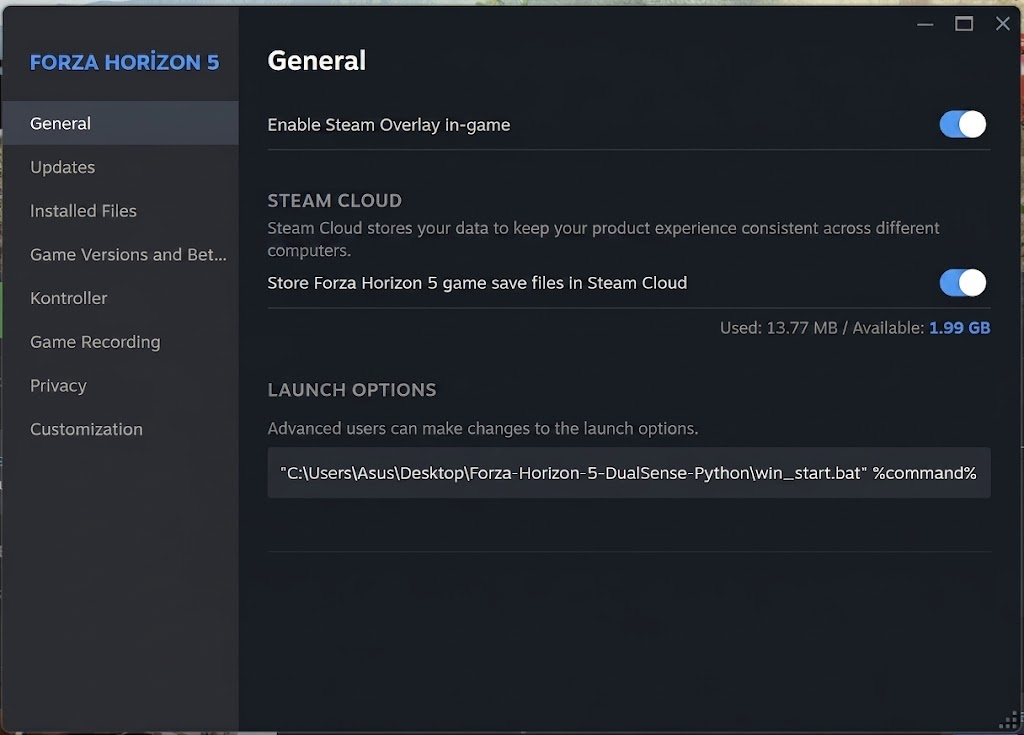
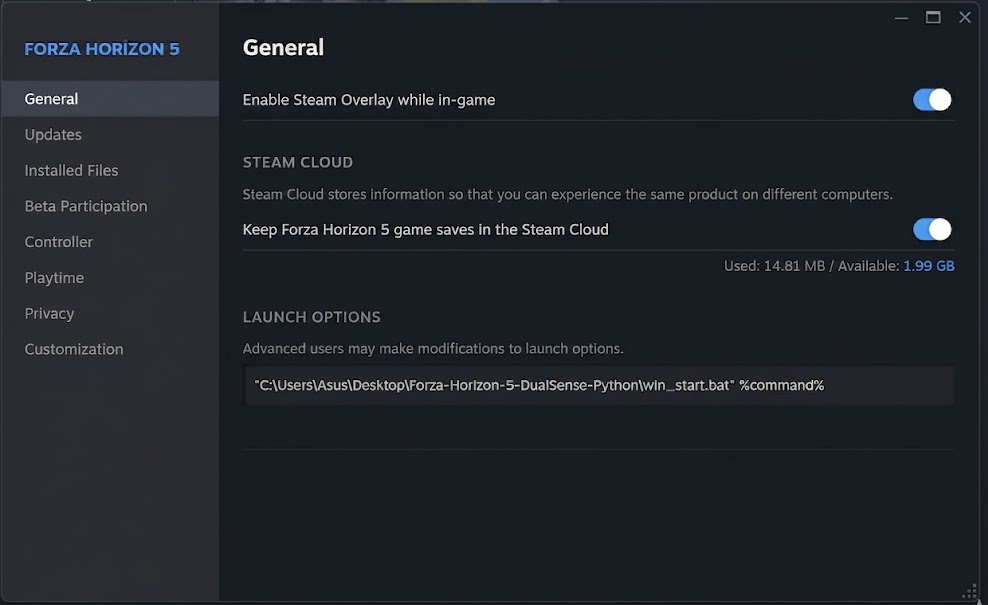
better readme

diff --git a/README.md b/README.md
@@ -1,113 +1,77 @@
-> Steam profile: <https://steamcommunity.com/id/teccno/>
->
-> 💛 Huge thanks to **[Jared (jmac122)](https://github.com/jmac122)** for sponsoring this project by gifting me Forza Horizon 6. This release wouldn't exist without him. Have fun using the app.
-
 <div align="center">
   <h1>🏎️ Forza Horizon — DualSense Adaptive Triggers</h1>
-  <p><strong>Real, physics-driven trigger feedback for the Steam version of Forza Horizon.</strong></p>
-  <p><em>Lightweight · No presets · No mode juggling · One file of knobs you can edit in 10 seconds.</em></p>
+  <p><strong>Real trigger feedback for Forza Horizon on PC.</strong></p>
+  <p><em>Feel the brakes. Feel the engine. No setup juggling.</em></p>
 </div>
 
----
+![TUI Screenshot](img/tui.png)
 
-## TUI Screenshot
-![alt text](img/tui.png)
-
-## 📜 Table of Contents
-1. [Why this exists](#-why-this-exists)
-2. [What you'll feel](#-what-youll-feel)
-3. [How it works](#-how-it-works)
-4. [Installation](#%EF%B8%8F-installation)
-5. [In-game setup](#-in-game-setup)
-6. [Run it](#%EF%B8%8F-run-it)
-7. [CLI options](#%EF%B8%8F-cli-options)
-8. [Tuning the feel](#%EF%B8%8F-tuning-the-feel)
-9. [Project layout](#-project-layout)
-10. [Troubleshooting](#-troubleshooting)
-11. [Credits](#-credits)
+> 💛 Huge thanks to **[Jared (jmac122)](https://github.com/jmac122)** for sponsoring this project by gifting me Forza Horizon 6.
+>
+> Steam profile: <https://steamcommunity.com/id/teccno/>
 
 ---
 
-## 💡 Why this exists
+## 📜 Contents
+1. [What it does](#-what-it-does)
+2. [Install](#-install)
+3. [In-game setup](#-in-game-setup)
+4. [Run it](#-run-it)
+5. [Auto-launch with Steam](#-auto-launch-with-steam)
+6. [Tuning the feel](#-tuning-the-feel)
+7. [Troubleshooting](#-troubleshooting)
+8. [Credits](#-credits)
 
-Forza Horizon on PC sends rich telemetry over UDP — but Steam Input only forwards generic rumble to the DualSense. The actual **adaptive triggers** (the killer feature of the controller) just sit there doing nothing.
 
-This project bridges the gap with a tiny Python service:
-
-- It reads Forza Horizon's UDP packets each frame.
-- It computes a single adaptive-trigger command for each trigger.
-- It writes those commands to the DualSense via raw HID — **without touching the rumble bits**, so Steam keeps doing its job.
-
-The result: a brake pedal that feels like a brake pedal and a gas pedal that pushes back when the engine is working.
-
----
-
-## 🎮 What you'll feel
-
-### Left trigger — Brake
-A **continuous, exponential** brake resistance. The trigger keeps a tiny always-on baseline so it does not rapidly toggle between off and rigid near the deadzone. As brake input rises, resistance climbs softly at first and gets firmer near the end.
-
-Left-trigger effects:
-
-| Priority | Effect | Feel |
-|---------:|--------|------|
-| 1 | **ABS / tire-slip pulse** | A fast `35 Hz` vibration when braking hard enough, moving above the minimum speed, and tire slip telemetry crosses the ABS thresholds. |
-| 2 | **Progressive brake resistance** | Exponential rigid resistance from a `1`-force baseline up to `25` during normal braking. Above ~98% input it jumps to full trigger force (`255`). |
-| 3 | **Handbrake bonus** | Adds a flat `25` force on top of the normal brake resistance when the handbrake is engaged. |
-
-### Right trigger — Throttle
-Strict priority — **only one effect plays at a time**, so animations never fight:
-
-| Priority | Effect | Feel |
-|---------:|--------|------|
-| 1 | **Gear-shift thump** | A short `20 Hz` vibration burst (~100 ms) when shifting up or down while the car is moving. |
-| 2 | **Rev limiter buzz** | A `30 Hz` vibration when RPM is above the redline ratio. |
-| 3 | **Progressive throttle resistance** | Soft exponential resistance from a `1`-force baseline up to `10` during normal throttle. Above ~98% input it jumps to full trigger force (`255`). |
-
-The chain lives in [TriggerAnimation._throttle()](src/modules/dualsense/triggers.py) — about 20 lines, easy to extend.
-
-> ⚠️ **Rev limiter caveat:** the buzz fires based on `rpm / max_rpm` as a
-> percentage, not at a fixed RPM. Different cars hit their redline at
-> different fractions of telemetry `max_rpm`, so the `rev_limit_ratio`
-> setting may need to be fine-tuned per vehicle to feel right. Sorry about
-> that — it's a limitation of how Forza reports the redline.
 
 ---
 
-## ⚡ How it works
+## 💡 What it does
+
+Forza Horizon sends car telemetry over UDP, but Steam Input doesn't use the DualSense's **adaptive triggers**. This tiny app fills the gap:
+
+- **Left trigger (brake)** — pushes back harder the more you press. Buzzes like ABS when tires slip. Extra resistance when handbraking.
+- **Right trigger (throttle)** — soft progressive resistance. Thumps on gear shifts. Buzzes at the rev limiter.
+
+### How it talks to your controller without fighting Steam
 
 ```
-┌─────────────────┐   UDP 5300    ┌───────────────┐   HID write    ┌─────────────┐
-│  Forza Horizon  │ ────────────► │  fhds.py      │ ─────────────► │  DualSense  │
-│  Data Out       │   324 bytes   │  per frame    │  triggers only │  controller │
-└─────────────────┘               └───────────────┘                └─────────────┘
-                                        │
-                                        ▼
-                             Steam Input keeps owning rumble
+┌──────────────────┐    UDP 5300     ┌──────────────────┐    HID write    ┌─────────────┐
+│  Forza Horizon   │ ──────────────► │  This app        │ ──────────────► │  DualSense  │
+│  (Data Out)      │  telemetry      │  (trigger bits   │  triggers only  │  controller │
+└──────────────────┘  324 bytes      │   only)          │                 └─────────────┘
+                                     └──────────────────┘                        ▲
+                                                                                 │
+                                     ┌──────────────────┐    HID write           │
+                                     │  Steam Input     │ ──────────────────────►│
+                                     │  (rumble bits)   │  rumble + buttons      │
+                                     └──────────────────┘
 ```
 
-- **UDP listener** ([modules/udplistener/main.py](src/modules/udplistener/main.py)) parses Forza Horizon's 324-byte telemetry packet (RPM, speed, accelerator, brake, gear, drivetrain…). Each frame it **drains the socket and uses only the latest packet**, so we never react to stale telemetry if the OS queues bursts.
-- **TriggerAnimation** ([modules/dualsense/triggers.py](src/modules/dualsense/triggers.py)) turns telemetry into a `(left, right)` tuple of trigger commands.
-- **DualSense HID layer** ([modules/dualsense/main.py](src/modules/dualsense/main.py)) writes them out, flipping only the trigger bits in `valid_flag0` so Steam's rumble bytes stay untouched. The HID device is opened in **non-blocking mode** so writes fire immediately instead of waiting for an input report (important on Bluetooth).
+Both the app and Steam write to the same controller — but they touch **different bytes**:
+
+- Steam owns the **rumble motors** and button mapping.
+- This app only flips the **adaptive trigger** bits (`valid_flag0` bits `0x04` and `0x08`).
+- The HID device is opened in **non-blocking mode**, so writes fire immediately instead of waiting on the controller. Nothing gets queued, nothing blocks Steam.
+
+That's why you can run both at the same time and neither one breaks the other.
 
 ---
 
-## 🛠️ Installation
+## 🛠️ Install
 
-**Requirements:** Windows 10/11 or Linux, and a DualSense controller (USB or Bluetooth).
-
-### Click and run
+**You need:** Windows 10/11 or Linux, and a DualSense controller (USB or Bluetooth).
 
 1. Go to the [latest release](https://github.com/HamzaYslmn/Forza-Horizon-DualSense-Python/releases/latest).
 2. Download **`win_start.bat`** (Windows) or **`linux_start.sh`** (Linux).
 3. Put it in any empty folder and double-click it.
 
-That's it. The launcher takes care of everything: downloads the app into `./app/` next to itself, installs `uv` and Python if needed, and runs the TUI. Re-running it later checks for updates and asks before installing them. The window stays open on exit so any error stays on screen.
+The launcher handles everything: downloads the app, installs Python if needed, and runs it. Next time you run it, it checks for updates.
 
-> Linux users: also install `libhidapi` (`sudo apt install libhidapi-hidraw0` / `sudo pacman -S hidapi` / `sudo dnf install hidapi`) and the udev rule from `app/packaging/linux/70-dualsense.rules` so non-root users can talk to the controller. Then unplug/replug or re-pair once.
+> **Linux extras:** install `libhidapi` (`sudo apt install libhidapi-hidraw0` / `sudo pacman -S hidapi` / `sudo dnf install hidapi`) and the udev rule from `app/packaging/linux/70-dualsense.rules`. Then unplug/replug the controller once.
 
 <details>
-<summary>Manual install (developers)</summary>
+<summary>Manual install (for developers)</summary>
 
 ```bash
 git clone https://github.com/HamzaYslmn/Forza-Horizon-DualSense-Python
@@ -116,14 +80,14 @@ uv sync
 uv run main.py
 ```
 
-Install `uv` first if needed: `pip install uv` or [astral.sh/uv](https://astral.sh/uv/).
+Need `uv`? `pip install uv` or [astral.sh/uv](https://astral.sh/uv/).
 </details>
 
 ---
 
 ## 🎯 In-game setup
 
-Open Forza Horizon → **Settings → HUD and Gameplay**, scroll to the bottom:
+In Forza Horizon, open **Settings → HUD and Gameplay** and scroll to the bottom:
 
 | Setting | Value |
 |---------|-------|
@@ -141,109 +105,61 @@ Open Forza Horizon → **Settings → HUD and Gameplay**, scroll to the bottom:
 
 ## ▶️ Run it
 
-Double-click `win_start.bat` (Windows) or `linux_start.sh` (Linux). For developers, from the `src/` folder: `uv run main.py`.
+Double-click **`win_start.bat`** (Windows) or **`linux_start.sh`** (Linux).
 
-You should hear a brief startup pulse on both triggers — that confirms HID writes are landing on the controller. After that, fire up Forza Horizon and start driving.
+You'll feel a short pulse on both triggers — that means it's working. Now launch Forza Horizon and drive.
 
-> Run the script **before or while Forza Horizon is loading**. Steam Input must be active for the controller; if you use HidHide, allowlist `python.exe`.
+> Start the launcher **before** Forza Horizon. If you use HidHide, allowlist `python.exe`.
 
-### Option B: Start via Steam (Auto Launch)
-You can configure Steam to launch the DualSense script automatically in the background whenever you press **Play** on Forza Horizon.
-
-1. Open Steam, right-click **Forza Horizon** in your Library -> **Properties**.
-2. In the **General** tab, scroll down to **Launch Options**.
-3. Paste the following line exactly (update the path to wherever you downloaded this project):
-   ```text
-   cmd /c "start /MIN /D C:\Your\Path\To\Forza-Horizon-DualSense-Python\src uv run main.py" && %command%
-   ```
-
-Now, whenever you start the game from Steam, the Python script will quietly launch in a minimized window just before the game opens. No `.bat` files needed!
-
-![1778765787413](img/steaming.png)
 ---
 
-## ⚙️ CLI options
+## 🎮 Auto-launch with Steam
 
-The defaults work for almost everyone. Use these only if you need them.
+Want the triggers to turn on automatically when you press **Play**? Tell Steam to run the launcher first.
 
-| Argument | Description | Default |
-|----------|-------------|---------|
-| `--host` | UDP bind address | `127.0.0.1` |
-| `--port` | UDP port | `5300` |
-| `--debug` | Verbose per-packet logging | off |
+1. In Steam, right-click **Forza Horizon** → **Properties**.
+2. Open the **General** tab and find **Launch Options**.
+3. Paste this (change the path to where your `win_start.bat` actually is):
 
-Example:
-```bash
-cd src
-uv run main.py --port 5400 --debug
+   ```text
+   "C:\Your\Path\To\Forza-Horizon-DualSense-Python\win_start.bat" %command%
+   ```
+
+That's it. Press **Play** — the launcher runs, then the game opens.
+
+![Steam launch options](img/steaming.png)
+
+<details>
+<summary>Advanced — run the Python script directly (no BAT file)</summary>
+
+If you cloned the repo and use `uv`, paste this into **Launch Options** instead:
+
+```text
+cmd /c "start /MIN /D C:\Your\Path\To\Forza-Horizon-DualSense-Python\src uv run main.py" && %command%
 ```
+</details>
 
 ---
 
 ## 🎚️ Tuning the feel
 
-Open [src/modules/settings.py](src/modules/settings.py) and edit any field. There are **no presets, no multipliers, no inheritance** — just one flat dataclass. Changes take effect on next launch.
+Every effect (brake force, ABS buzz, gear thump, rev limiter, etc.) can be tweaked or turned off from the **Settings page in the app** — no file editing needed. Changes apply on next launch.
 
-Every trigger effect has an `enable_*` switch. Set it to `False` if you do not want that effect.
+> ⚠️ The rev limiter fires based on `rpm / max_rpm`, not a fixed RPM. Different cars hit redline at different ratios, so it may need per-car tweaking.
 
-### Brake (left trigger)
+---
 
-| Field | Default | Effect |
-|-------|--------:|--------|
-| `enable_brake_resistance` | `True` | Toggle the normal progressive brake resistance. |
-| `brake_baseline_force` | `1` | Always-held resistance. Prevents off↔rigid jitter near the deadzone. |
-| `brake_max_force` | `25` | Normal brake resistance before the full-press threshold. |
-| `brake_curve` | `2.5` | Higher = softer early press and sharper resistance near the end. |
-| `enable_handbrake_bonus` | `True` | Toggle the extra handbrake force. |
-| `handbrake_bonus` | `25` | Flat extra rigid force when the handbrake is engaged. |
-| `brake_deadzone` | `10` | Ignore brake input below this raw value (out of 255). |
-| `pedal_full_force_at` | `248` | Pedal value where the trigger jumps to full force (`255`). |
+## 🩺 Troubleshooting
 
-### ABS / tire slip (left trigger)
-
-| Field | Default | Effect |
-|-------|--------:|--------|
-| `enable_abs` | `True` | Toggle the ABS-like tire-slip vibration. |
-| `abs_brake_threshold` | `80` | Minimum brake input required before ABS can activate. |
-| `abs_min_speed_kmh` | `15.0` | Minimum speed required before ABS can activate. |
-| `abs_slip_ratio_threshold` | `1.0` | Tire slip ratio threshold for ABS vibration. |
-| `abs_combined_slip_threshold` | `1.0` | Combined tire slip threshold for ABS vibration. |
-| `abs_freq` | `35` Hz | ABS pulse frequency. |
-| `abs_amp` | `255` | ABS pulse amplitude (0-255). |
-
-### Throttle (right trigger)
-
-| Field | Default | Effect |
-|-------|--------:|--------|
-| `enable_throttle_resistance` | `True` | Toggle the normal progressive throttle resistance. |
-| `throttle_baseline_force` | `1` | Always-held resting weight. Prevents off↔rigid jitter near the deadzone. |
-| `throttle_max_force` | `10` | Normal throttle resistance before the full-press threshold. Kept softer than the brake. |
-| `throttle_curve` | `5.2` | Higher = much softer light throttle, with resistance arriving late in the press. |
-| `accel_deadzone` | `10` | Ignore tiny accelerator noise. |
-| `pedal_full_force_at` | `248` | Pedal value where the trigger jumps to full force (`255`). |
-
-### Throttle effects
-
-| Field | Default | Effect |
-|-------|--------:|--------|
-| `enable_gear_shift` | `True` | Toggle the shift thump. |
-| `gear_shift_freq` | `20` Hz | Lower = deeper thump, higher = sharper click. |
-| `gear_shift_amp` | `255` | Max amplitude (0–255). |
-| `gear_shift_duration_ms` | `100.0` | How long the burst lasts. |
-| `enable_rev_limiter` | `True` | Toggle the rev limiter buzz. |
-| `rev_limit_ratio` | `0.95` | Buzz when `rpm / max_rpm` exceeds this. |
-| `rev_limit_freq` | `30` Hz | Buzz frequency. |
-| `rev_limit_amp` | `255` | Buzz amplitude. |
-
-### Connection / system
-
-| Field | Default | Effect |
-|-------|--------:|--------|
-| `udp_host` | `"0.0.0.0"` | UDP bind address. |
-| `udp_port` | `5300` | UDP port (must match Forza Horizon). |
-| `udp_timeout` | `0.5` s | Listener timeout (used to detect "no telemetry"). |
-| `enable_startup_pulse` | `True` | Toggle the short trigger pulse on app startup. |
-| `startup_pulse_force` | `150` | Strength of the connect-confirm pulse. |
+| Symptom | Fix |
+|---------|-----|
+| `DualSense gamepad interface not found` | Controller not connected, or HidHide is hiding it — allowlist `python.exe`. |
+| `No UDP packets yet` | Forza's Data Out is off, IP/port is wrong, or Windows Firewall is blocking. |
+| Triggers feel weak | Raise `brake_max_force` / `throttle_max_force`, or lower the matching `curve`. |
+| Triggers feel like a brick wall | Lower `brake_max_force` / `throttle_max_force`, or raise the matching `curve`. |
+| Triggers feel stiff at a light press | Lower the baseline force, or raise the `curve`. |
+| No vibration on gear shift | Car must be moving faster than 3 km/h and changing between valid gears. |
+| Console window is blank after the startup pulse | Run from a terminal with `cd src && uv run main.py --no-tui` to skip the TUI. |
 
 ---
 
@@ -251,30 +167,15 @@ Every trigger effect has an `enable_*` switch. Set it to `False` if you do not w
 
 ```
 src/
-├── main.py                          # Entry point: arg parsing, packet loop
+├── main.py                          # Entry point
 └── modules/
-    ├── settings.py                  # 👈 the only file you usually edit
+    ├── settings.py                  # 👈 the file you edit
     ├── dualsense/
-    │   ├── main.py                  # HID layer (rumble bits left untouched)
-    │   └── triggers.py              # Effect primitives + TriggerAnimation
+    │   ├── main.py                  # HID layer
+    │   └── triggers.py              # Effect logic
     └── udplistener/
-        └── main.py                  # UDP socket + 324-byte packet parser
+        └── main.py                  # UDP parser
 ```
-
----
-
-## 🩺 Troubleshooting
-
-| Symptom | Likely cause / fix |
-|---------|--------------------|
-| `DualSense gamepad interface not found` | Controller not connected, or HidHide is hiding it. Allowlist `python.exe` in HidHide. |
-| `No UDP packets yet` after several seconds | Forza Horizon Data Out is off, IP/port mismatch, or Windows Firewall is blocking the bind. |
-| Triggers feel weak | Increase `brake_max_force` / `throttle_max_force`, or lower the relevant `curve` for earlier resistance. Values above `pedal_full_force_at` still jump to full force (`255`). |
-| Triggers feel like a rock wall before pedal hits 100% | Lower `brake_max_force` / `throttle_max_force`, or raise the relevant `curve` so resistance arrives later. |
-| Triggers feel too stiff at light press | Lower the relevant baseline force, or raise the relevant `curve` for a softer initial press. |
-| Brake "machine-guns" / buzzes when barely pressed | This was the original off↔rigid jitter — already fixed by the always-held baseline. If it returns, raise the deadzone or the baseline force. |
-| No vibration on gear shift | Make sure the car is moving faster than 3 km/h and the change is between valid gears. Neutral/invalid gear transitions are intentionally ignored. |
-| Console hangs on an empty window after the startup pulse | On some Windows/Python combinations the Textual TUI can fail to render even though the controller connection worked. Start from a terminal with `cd src && uv run main.py --no-tui` to use normal console logs instead. |
 
 ---
 